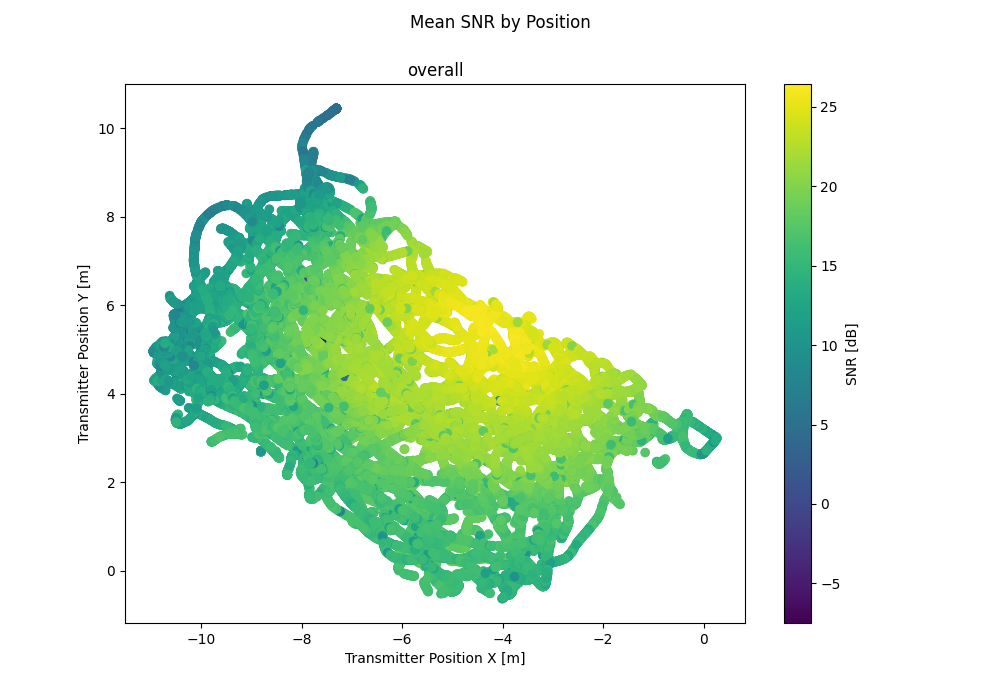
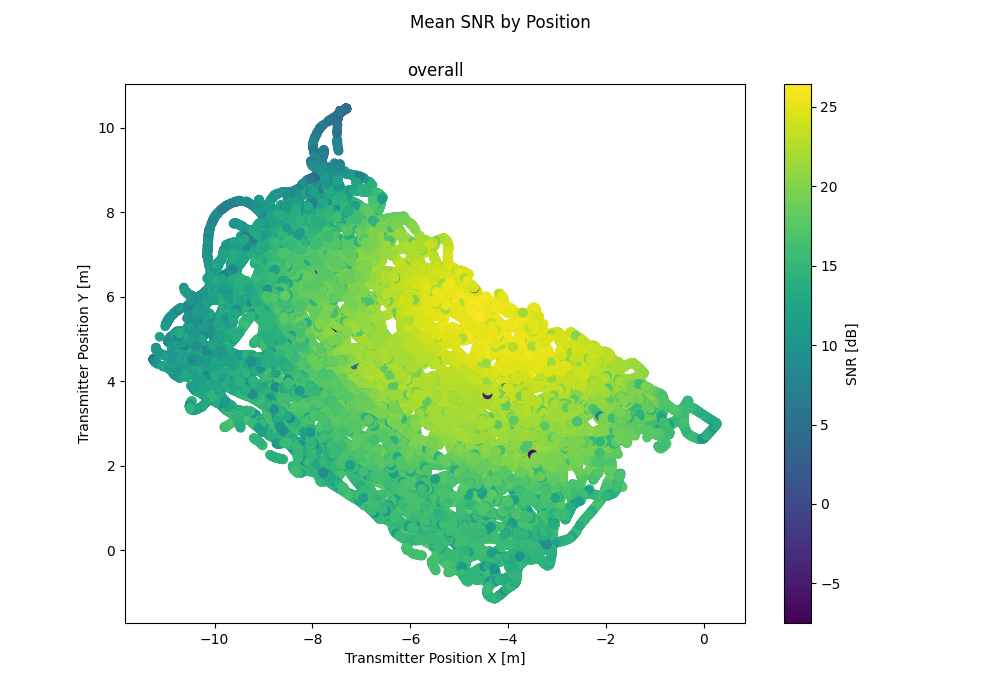
Fix citation, update dichasus-cb0x

diff --git a/content/_index.html b/content/_index.html
@@ -74,7 +74,7 @@ layout: list
 				Please cite our paper if you use datasets from this site for your own research.
 				This paper explains in a general sense how data was collected and postprocessed:
 				<pre class="m-0"><code class="language-tex">@inproceedings{dichasus2021,
-	author    = {Florian Euchner and Marc Gauger and Sebastian Dörner and Stephan ten Brink},
+	author    = {Florian Euchner and Marc Gauger and Sebastian D\"orner and Stephan ten Brink},
 	title     = {{A Distributed Massive MIMO Channel Sounder for "Big CSI Data"-driven Machine Learning}},
 	booktitle = {WSA 2021; 25th International ITG Workshop on Smart Antennas},
 	year      = {2021}
